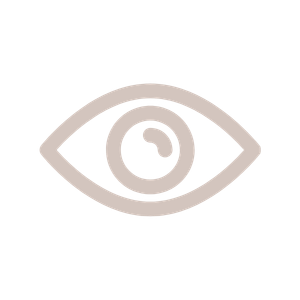
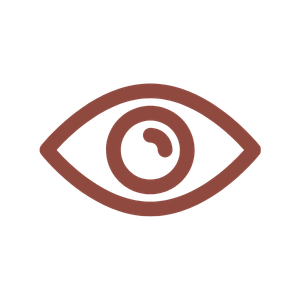
COMMENTS 99.9% DONE

Changed region(s): [[0.12, 0.27, 0.87, 0.72]]

diff --git a/public/css/garnet_stylesheet.css b/public/css/garnet_stylesheet.css
@@ -318,6 +318,10 @@ li.navListItem:hover {
     grid-column: 3 / span 1;
 }
 
+.postHeaderViewButton img:hover{
+    filter: brightness(70%);
+}
+
 .postBody {
     background-color: #efebe6;
     color: #4b2427;
@@ -381,21 +385,22 @@ li.navListItem:hover {
     width: 500px;
     font-family: TexGyreHeros;
     justify-content: left;
-    border-radius: 10px;
 
     margin-top: 10px;
 }
 
 .commentHeader {
-    background-color: #6d363a;
+    background-color: #8f493f;
     display: grid;
     width: 500px;
     justify-content: right;
+    border-radius: 10px 10px 0px 0px;
 }
 
 .commentHeader img {
     width: 30px;
     height: 30px;
+    margin: auto;
     border-radius: 100px;
     grid-row: 1 / span 1;
     grid-column: 1 / span 1;
@@ -414,25 +419,42 @@ li.navListItem:hover {
 
 .commentBody {
     font-size: smaller;
-    background-color: #8f493f;
+    background-color: #4b2427;
     color: #dfd1ca;
-    padding: 0px 20px;
     grid-row: 2 / span 1;
+    border-radius: 0px 0px 10px 10px;
+}
+
+.commentBody p {
+    padding: 0px 20px;
 }
 
 .commentFooter {
+    margin: 0;
     display: flex;
     float: left;
     font-size: smaller;
     grid-row: 3 / span 1;
-    
+    width: 100%;
+    background-color: #773b31;
+    border-radius: 0px 0px 10px 10px;
 }
 
-.commentFooter a {
-    font-size: small;
-    text-decoration: none;
-    color: #dfd1ca;
-    margin: 5px;
+.commentFooterButton {
+    align-self: center;
+    align-content: center;
+    background-color: transparent;
+    border: none;
+}
+
+.commentFooterButton img {
+    width: 30px;
+    height: 30px;
+}
+
+.commentFooterButton img:hover {
+    filter: brightness(70%);
+    cursor: pointer;
 }
 
 .commentLikeCount {
@@ -592,6 +614,7 @@ li.navListItem:hover {
     margin: 0px 10px;
     grid-row: 3 / span 1;
     grid-column: 1 / span 1;
+    overflow-wrap: anywhere;
 }
 
 .profileBio {
@@ -728,6 +751,17 @@ li.navListItem:hover {
     box-shadow: 8px 8px 15px #4b2427;
 }
 
+.sidebarPopUp {
+    height: 100px;
+    width: 30vw;
+    position: fixed;
+    right: 20px;
+    top: 400px;
+    align-self: center;
+    grid-column: 3 / span 1;
+    box-shadow: 8px 8px 15px #4b2427;
+}
+
 /* ~~~~~~~~~~~~~~~~~~~~~~~~~~~~~~~~~~~~~~~~~~~~~~~~~~~~~~~~~~~~~~~~~~~ */
     /* Forms */
 
@@ -751,6 +785,8 @@ form.editProfileForm {
     outline:none; 
     background-color: rgb(240, 240, 240);
     font-family: TexGyreHeros;
+    color: #4b2427;
+    font-size: 13px;
 
     border: 2px solid #8f493f;
     border-radius: 5px;
@@ -785,11 +821,15 @@ form.editProfileForm textarea:hover, textarea:active, form.commentForm textarea:
 .commentFormContainer {
     align-content: center;
     background-color: #4b2427;
-    position: relative;
-    right: 10vw;
+    position: sticky;
+    right: 20px;
+    top: 100px;
     width: 30vw;
+    height: fit-content;
     grid-column: 3 / span 1;
+    box-shadow: 8px 8px 15px #4b2427;
     border-radius: 8px;
+    border-color: #4b2427;
 }
 
 .commentFormContainer h3 {

diff --git a/app.js b/app.js
@@ -1,7 +1,7 @@
 const dotenv = require('dotenv');
 dotenv.config();
 const {connectToMongo} = require('./db/conn.js');
-const {RegisterUser, UpdateUser, DeleteUser, AddPost, UpdatePost, DeletePost, AddComment, GiveLike, FollowUser} = require('./db/req.js');
+const {RegisterUser, UpdateUser, DeleteUser, AddPost, UpdatePost, DeletePost, AddComment, UpdateComment, DeleteComment, GiveLike, FollowUser} = require('./db/req.js');
 // const {PopulateUsers} = require("./db/populate-db/populate-users.js");
 // const {PopulatePosts} = require("./db/populate-db/populate-posts.js");
 
@@ -104,6 +104,14 @@ app.post('/home', upload.none(), async (req, res) => {
 
 app.post('/home/:postID/comment', upload.none(), async (req, res) => {
     return await AddComment(req, res);
+});
+
+app.post('/viewPost/:postID/:commentID/edit', upload.none(), async (req, res) => {
+    if (req.body.delete) {
+        return await DeleteComment(req, res);
+    } else {
+        return await UpdateComment(req, res);
+    }
 });
 
 app.post('/viewPost/:postID/edit', upload.none(), async (req, res) => {
@@ -226,6 +234,27 @@ app.get('/viewPost/:postID', async (req,res) => {
         title: "View Post",
         post: matchingPost,
         comments: comments,
+        sessionUser: req.session.userUsername
+    })
+});
+
+app.get('/viewPost/:postID/:commentID/edit', async (req,res) => {
+    const postID = req.params.postID;
+    const commentID = req.params.commentID;
+    const Post = require("./db/models/post.js");
+    const User = require("./db/models/user.js");
+    const Comment = require("./db/models/comment.js");
+
+    const matchingPost = await Post.findOne({_id: postID}).populate('postOwner').lean();
+    const comments = await Comment.find({postParent: postID}).populate('postParent commentOwner').lean();
+    const matchingComment = await Comment.find({_id: commentID}).lean();
+    res.render("editComment", {
+        title: "View Post",
+        post: matchingPost,
+        comments: comments,
+        postID: postID,
+        commentID: commentID,
+        focusedComment: matchingComment,
         sessionUser: req.session.userUsername
     })
 });

diff --git a/public/js/editComment.js b/public/js/editComment.js
@@ -1,0 +1,67 @@
+
+var commentPopUpObj = document.getElementById("commentPopUp");
+var commentPopUpObj2 = document.getElementById("commentPopUp2");
+
+async function EditComment()
+{
+    var commentForm = document.getElementById("commentEditForm");
+    const formData = new FormData(commentForm);
+
+    var commentID = formData.get('commentID');
+    var postID = formData.get('postID');
+    var url = `/viewPost/${postID}/${commentID}/edit`;
+
+    try {
+        const response = await fetch(url, {
+            method: "POST",
+            body: formData,
+        });
+
+        if (response.ok) {
+            var url = `/viewPost/${postID}`;
+            window.location.href = url;
+        } else {
+            commentPopUpObj.classList.toggle("hiddenPopUp");
+            popup.innerHTML = (await response.text()).toString();
+        }
+    } catch (e) {
+        commentPopUpObj.classList.toggle("hiddenPopUp");
+        commentPopUpObj.innerHTML = "<p>Something went wrong... Please try again!</p>";
+    }
+}
+
+function ToggleEditComment(event)
+{
+    event.preventDefault();
+    EditComment();
+}
+
+async function DeleteComment(postID, commentID) {
+    var url = `/viewPost/${postID}/${commentID}/edit`;
+
+    const response = await fetch(url, {
+        method: "POST",
+        headers: { 'Content-Type': 'application/json; charset=UTF-8' },
+        body: JSON.stringify({ 
+            delete: "true",
+            commentID: commentID
+        })
+    });
+
+    if (response.ok) {
+        var url = `/viewPost/${postID}`;
+        window.location.href = url;
+    } else {
+        commentPopUpObj.classList.toggle("hiddenPopUp");
+        commentPopUpObj.innerHTML = (await response.text()).toString();
+    }
+}
+
+function ValidateCommentDeletion() {
+    commentPopUpObj2.classList.toggle("hiddenPopUp");
+}
+
+var commentForm = document.getElementById("commentEditForm");
+commentForm.addEventListener("submit", ToggleEditComment);
+
+

diff --git a/db/req.js b/db/req.js
@@ -184,6 +184,38 @@ async function AddComment(req,res)
     return res.sendStatus(200);
 }
 
+async function UpdateComment(req,res)
+{
+    var date = new Date();
+    var Comment = require("./models/comment.js");
+    const checkComment = await Comment.findById(req.body.commentID);
+
+    if (checkComment) {
+        try {
+            await Comment.findByIdAndUpdate(req.body.commentID, {
+                commentBody: req.body.commentBody,
+                dateCreated: date
+            });
+
+            return res.status(200).send("<p>Successfully updated comment.<p>");
+        } catch (e) {
+            return res.status(400).send("Failed to update comment.");
+        }
+    } else {
+        return res.status(400).send("Failed to find comment.");
+    }
+}
+
+async function DeleteComment(req, res) {
+    try {
+        var Comment = require('./models/comment.js');
+        const deleted = await Comment.findByIdAndDelete(req.body.commentID);
+        return res.status(200).send("<p>Successfully deleted comment.</p>");
+    } catch (e) {
+        return res.status(400).send("<p>Something went wrong. Try again.<p>");
+    }
+}
+
 async function GiveLike(req,res)
 {
     var Post = require("./models/post.js");
@@ -269,6 +301,8 @@ module.exports = {
     UpdatePost,
     DeletePost,
     AddComment,
+    UpdateComment,
+    DeleteComment,
     GiveLike,
     FollowUser
 }

diff --git a/public/js/commenting.js b/public/js/commenting.js
@@ -19,6 +19,8 @@ async function MakeComment()
         if (response.ok) {
             commentPopUpObj.classList.toggle("hiddenPopUp");
             commentPopUpObj.innerHTML = "<p>Comment posted.</p>";
+            var url = `/viewPost/${postID}`
+            window.location.href = url;
         } else {
             commentPopUpObj.classList.toggle("hiddenPopUp");
             commentPopUpObj.innerHTML = "<p>Could not make comment.</p>";

diff --git a/public/js/home.js b/public/js/home.js
@@ -1,6 +1,3 @@
-// function CheckClick() {
-
-// }
 var popUp = document.getElementById("homePopUp");
 
 async function ToggleLike(postID) {
